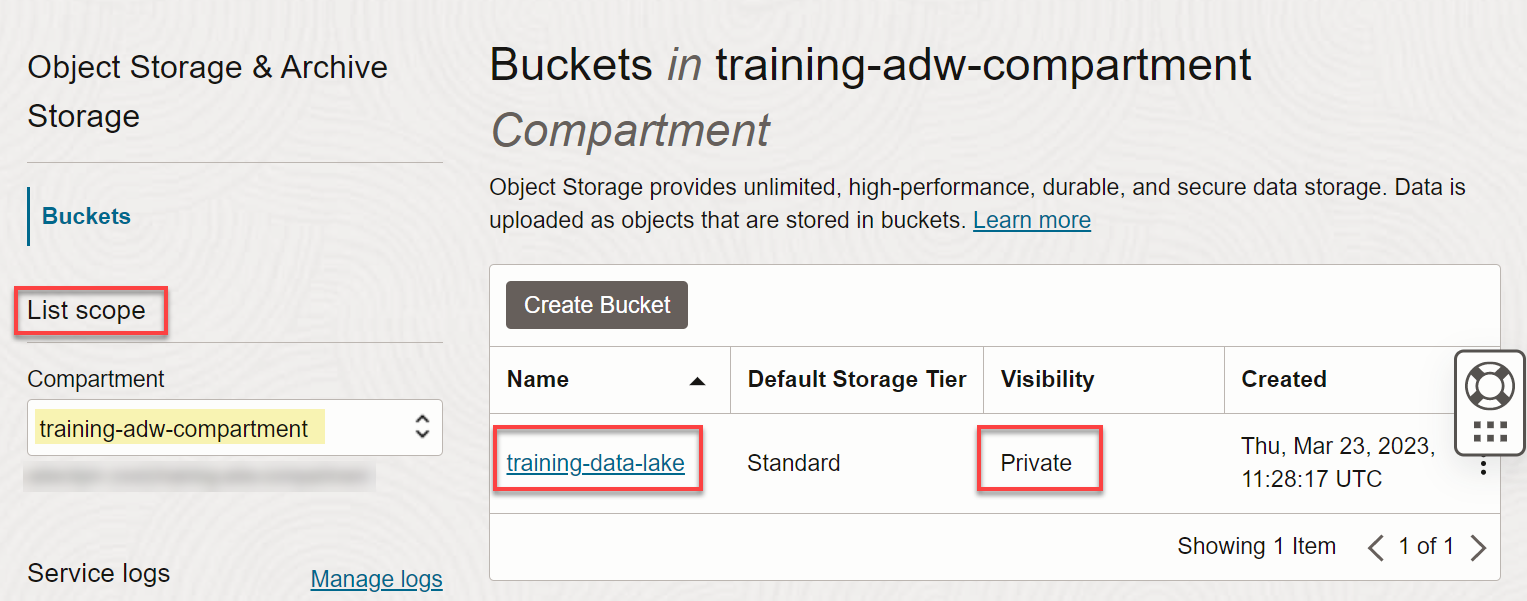
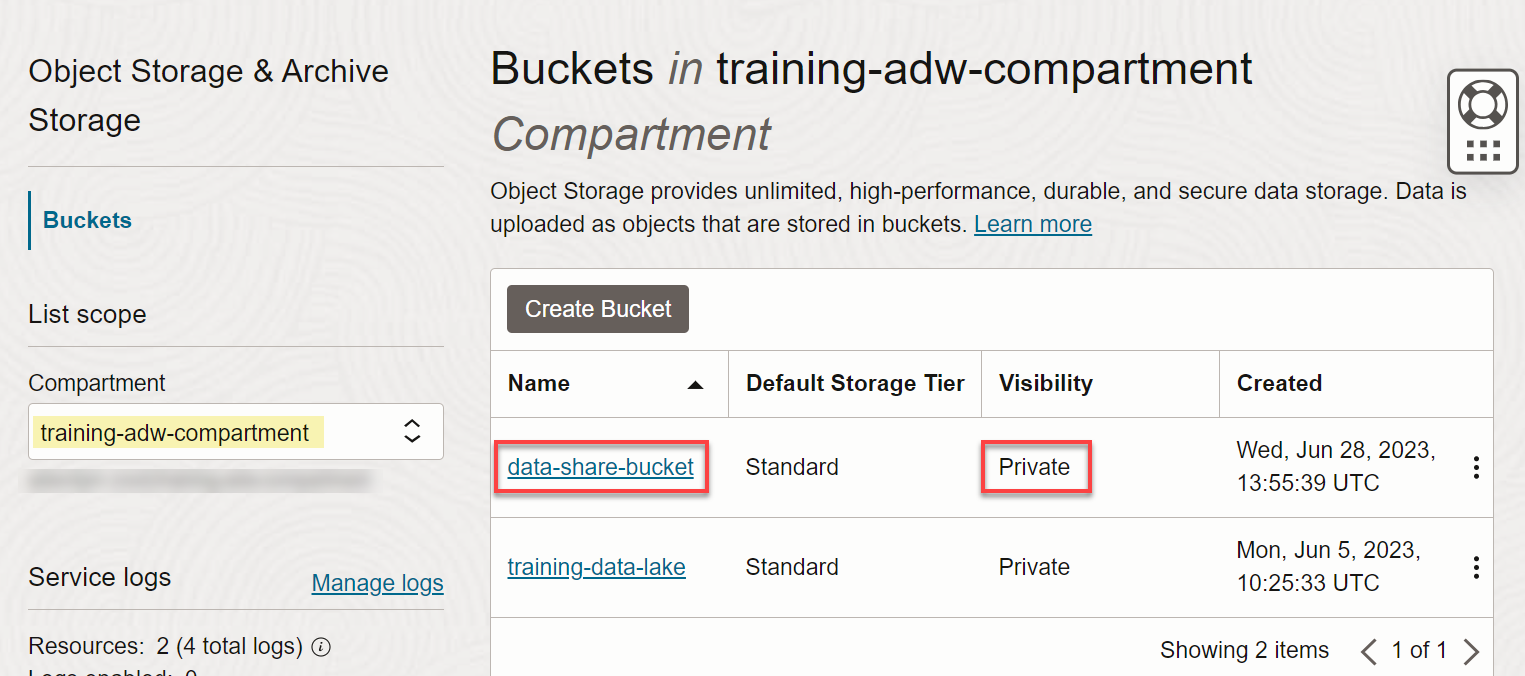
more updates

diff --git a/shared/adw-data-lake/use-data-sharing/create-user-storage-credentials/create-user-storage-credentials.md b/shared/adw-data-lake/use-data-sharing/create-user-storage-credentials/create-user-storage-credentials.md
@@ -10,11 +10,10 @@ Estimated Time: 15 minutes
 
 In this lab, you will:
 
-* Navigate to the SQL Worksheet utility.
-* Create a user that will be the recipient for data in the data share tables.
-* Grant the recipient the necessary role and privileges to access the data share.
-* Create an Oracle Object Storage bucket (if you don't have one) where you'll store the shared data.
-* Generate an RSA key pair (if you don't have a private key in PEM format) to generate a private key and a fingerprint and the user's OCID which you'll need to create an OCI native credential, if you don't have one.
+* Create a user that will be the data share provider.
+* Grant the data share provider the necessary role and privileges.
+* Create an Oracle Object Storage bucket where you'll store the shared data.
+* Generate an RSA key pair to generate a private key and a fingerprint.
 * Create an OCI native credential and associate the buckets' URL with the credential.
 
 ### Prerequisites
@@ -42,7 +41,7 @@ This lab assumes that you have successfully completed all of the preceding labs 
 
 Create a user that will be a **data share provider**. A user that will share the data needs to have certain privileges. You will also grant this user the required roles, and enable REST and data sharing.
 
->**Note:** Autonomous Database comes with a predefined database role named `DWROLE`. This role provides the privileges necessary for most database users. For more information about this role, see [Manage Database User Privileges](https://docs.oracle.com/en-us/iaas/autonomous-database/doc/managing-database-users.html).
+Autonomous Database comes with a predefined database role named `DWROLE`. This role provides the privileges necessary for most database users. For more information about this role, see [Manage Database User Privileges](https://docs.oracle.com/en-us/iaas/autonomous-database/doc/managing-database-users.html).
 
 1. Copy and paste the following script into your SQL Worksheet, and then click the **Run Script (F5)** icon in the Worksheet toolbar.
 
@@ -80,6 +79,8 @@ Create a user that will be a **data share provider**. A user that will share the
     </copy>
     ```
 
+    >**Note:** Although you are creating the new **`share_provider`** user, for the initial release of the workshop, you will be using the **`admin`** user to perform the tasks in this workshop.
+
     ![Run the script](images/run-script.png)
 
     The results are displayed in the **Script Output** tab.
@@ -88,11 +89,11 @@ Create a user that will be a **data share provider**. A user that will share the
 
 ## Task 3: Create an Oracle Object Storage Bucket
 
-You should store the data share data in Object Storage. You will have to create a link to your Object Storage bucket and (bucket's URL) and then associate the access credentials with that bucket.
+You should store the data share data in Object Storage. You will then create a link to your Object Storage bucket and associate the access credentials with that bucket.
 
 >**Note:** If you already have an Object Storage bucket, you don't need to create a new one.
 
-1. In the **Autonomous Database** browser tab, open the **Navigation** menu in the Oracle Cloud console and click **Storage**. Under **Object Storage & Archive Storage**, click **Buckets**.
+1. In your **Autonomous Database** browser tab, open the **Navigation** menu in the Oracle Cloud console and click **Storage**. Under **Object Storage & Archive Storage**, click **Buckets**.
 
 2. On the **Buckets** page, select the compartment where you want to create the bucket from the **Compartment** drop-down list in the **List Scope** section. Make sure you are in the region where you want to create your bucket.
 
@@ -101,7 +102,7 @@ You should store the data share data in Object Storage. You will have to create 
 3. Click **Create Bucket**.
 
 4. In the **Create Bucket** panel, specify the following:
-    - **Bucket Name:** Enter a meaningful name for the bucket.
+    - **Bucket Name:** Enter **data-share-bucket**.
     - **Default Storage Tier:** Accept the default **Standard** storage tier. Use this tier for storing frequently accessed data that requires fast and immediate access. For infrequent access, choose the **Archive** storage tier.
     - **Encryption:** Accept the default **Encrypt using Oracle managed keys**.
 
@@ -129,7 +130,7 @@ In this task, you will get the following items that are required to create a Clo
 
     ![Click the person icon at the far upper right and click your username.](./images/click-your-username.png " ")
 
-2. The **User Details** page is displayed. In the **User Information** tab, click the **Copy** link next to the **OCID** field. Make a note of this username's OCID as you will need it in a later task. Scroll down the page to the **Resources** section, and then click **API Keys**.
+2. The **User Details** page is displayed. Scroll down the page to the **Resources** section, and then click **API Keys**.
 
     ![Click Auth Tokens under Resources at the bottom left.](./images/click-api-key.png " ")
 
@@ -149,7 +150,7 @@ In this task, you will get the following items that are required to create a Clo
 
     **`oci-api-private-key.pem`**
 
-5. In most cases, you do not need to download the public key; however, you will download the public key for potential future use. click **Download Public Key**. The public key is downloaded to your Web browser's default directory such as the **Downloads** folder in MS-Windows. A checkmark is displayed next to the **Download Public Key**.
+5. In most cases, you do not need to download the public key; however, you can download the public key for future use. click **Download Public Key**. The public key is downloaded to your Web browser's default directory such as the **Downloads** folder in MS-Windows. A checkmark is displayed next to the **Download Public Key**.
 
     ![Download public key.](./images/download-public-key.png " ")
 
@@ -181,7 +182,7 @@ To access data in the Object Store, you need to enable your database user to aut
 
     In our example, the **region name** is `ca-toronto-1`, the **Namespace** is blurred for security, and the **bucket name** is `data-share-bucket`.
 
-2. Create a storage link that points to your Object Store URI. Make sure that the user has `WRITE` privileges to the specified bucket. Copy and paste the following script into your SQL Worksheet, and then click the **Run Statement** icon in the Worksheet toolbar. **Note:** Substitute the URI value in the following code with your own URI.
+2. Create a storage link that points to your Object Storage bucket's URI. Make sure that the user has `WRITE` privileges to the specified bucket. Copy and paste the following script into your SQL Worksheet, and then click the **Run Statement** icon in the Worksheet toolbar. **Note:** Substitute the URI value in the following code with your own bucket's URI.
 
     ```
     <copy>
@@ -239,7 +240,7 @@ To access data in the Object Store, you need to enable your database user to aut
 
     ![Access bucket.](images/access-bucket.png)
 
-5. Associate the storage link that you created in step 1 with your OCI native credential that you created in step 2. Copy and paste the following script into your SQL Worksheet, and then click the **Run Script** icon in the Worksheet toolbar.
+5. Associate the storage link that you created in step 2 with your OCI native credential that you created in step 3. Copy and paste the following script into your SQL Worksheet, and then click the **Run Script** icon in the Worksheet toolbar.
 
     ```
     <copy>

diff --git a/shared/adw-data-lake/use-data-sharing/introduction/introduction.md b/shared/adw-data-lake/use-data-sharing/introduction/introduction.md
@@ -2,7 +2,7 @@
 
 Data sharing is making the same data available to one or more consumers. Nowadays, the ever-growing amount of data has become a strategic asset for any company. Sharing data - within your organization or externally - is an enabling technology for new business opportunities. Sharing data and consuming data from external sources allows to collaborate with partners, establish new partnerships and generate new revenue streams with data monetization.
 
-## Why Use Data Sharing?
+### Why Use Data Sharing?
 
 Data Sharing allows customers to improve their business and open up new opportunities. Examples of Data Sharing scenarios:
 
@@ -10,7 +10,7 @@ Data Sharing allows customers to improve their business and open up new opportun
 * Business to Business (B2B) where a retailer shares regional sales and inventory data with a supplier to help improve the supplier's production line and locations.
 * Business to Customers (B2C) where a restaurant shares historical time-based pattern of busyness to allow customers to plan for their reservations.
 
-## About this Workshop
+### About this Workshop
 
 The labs in this workshop walk you through all the steps to ...
 
@@ -18,13 +18,36 @@ The labs in this workshop walk you through all the steps to ...
 
 Estimated Time: 1.5 hours
 
-### What is a Data Lake?
-A data lake enables an enterprise to store all of its data in a cost effective, elastic environment while providing the necessary processing, persistence, and analytic services to discover new business insights. A data lake stores and curates structured and unstructured data and provides methods for organizing large volumes of highly diverse data from multiple sources. In this workshop, a Data Lake refers to the Oracle Object Storage buckets that you will harvest in Data Catalog and query in ADB.
+### Traditional ways to share data
 
-### What is a Data Warehouse?
-With a data warehouse, you perform data transformation and cleansing before you commit the data to the warehouse. With a data lake, you ingest data quickly and prepare it on the fly as people access it. A data lake supports operational reporting and business monitoring that require immediate access to data and flexible analysis to understand what is happening in the business while it happening.
+Sharing data is nothing new and users did this before. Some examples of how users used to do data sharing in the past are:
 
-For additional information, see [What is the difference between a Data Lake, Database, and a Data Warehouse](https://www.oracle.com/a/ocom/docs/database/difference-between-data-lake-data-warehouse.pdf).
+* Send data via email
+* Share data through an FTP server
+* Use application-specific APIs for data extraction
+* Leverage vendor specific tools to copy relevant data
+
+While these methods work in general, they come with certain drawbacks:
+
+* Managing separate processes for data extraction, preparation or remote access are labor-intensive.
+* Extracting and duplicating data is prone to data staleness.
+* Architectures and processes can become very difficult to maintain and hard to scale.
+* Redundant data extraction can introduce format compatibility issues.
+* Data extraction and preparation must handle sensitive information properly.
+
+### The modern way of sharing data
+
+Modern data sharing must be open, secure, real-time, vendor-agnostic, and avoid the pitfalls of extracting and duplicating data for individual consumers of data in a collaborative environment. Delta Sharing is an open protocol for secure real-time data exchange of large datasets that satisfies all these criteria, supported by multiple clients and program languages, and vendor agnostic.
+
+The open Delta Sharing protocol is aimed to solve the following problems:
+
+* Share data without copying it to another system
+* Producer controls the state of data (version of data)
+* Be an open cross-platform solution
+* Support a wide range of clients such as Power BI, Tableau, Apache Spark, pandas and Java
+* Provide flexibility to consume data using the tools of choice for BI, machine learning and AI use cases
+* Provide strong security, auditing, and governance
+* Scale to massive data sets
 
 ### Objectives
 

diff --git a/shared/adw-data-lake/use-data-sharing/setup-workshop-environment/setup-workshop-environment.md b/shared/adw-data-lake/use-data-sharing/setup-workshop-environment/setup-workshop-environment.md
@@ -32,11 +32,11 @@ In this lab, you will:
 
 * (Optional) Create a compartment for your Data Catalog resources.
 * Create an Autonomous Warehouse instance.
+* Add the Data Share feature to the Limited Availability (LA) Version. This is not required in the GA Release.
 
 ### Prerequisites
 
 * An Oracle Cloud Account - Please view this workshop's LiveLabs landing page to see which environments are supported.
-* At least one user in your tenancy who wants to work with Data Catalog.
 
 > **Note:** If you have a **Free Trial** account, when your Free Trial expires your account will be converted to an **Always Free** account. You will not be able to conduct Free Tier workshops unless the Always Free environment is available. [Click here for the Free Tier FAQ page.](https://www.oracle.com/cloud/free/faq.html)
 
@@ -178,7 +178,7 @@ A Cloud Administrator can optionally create a compartment in your tenancy to hel
 
 ## Task 5: Add Data Share to the Limited Availability (LA) Version (Remove for GA)
 
-For the LA release only, the stage database must be **whitelisted** as follows:
+Support for Data Sharing is not automatically enabled in **Database Actions** in the Limited Availability (LA) release. You must enable the Data Sharing feature by performing the prerequisites described in this task. **Data Share** is a part of the **Data Studio** suite of tools built into Oracle Autonomous Database. You must access the **Database Actions** as the **ADMIN** user and have the **ADPBETA** role assigned to this user.
 
 1. Copy and paste the following script into your SQL Worksheet, and then click the **Run Script (F5)** icon in the Worksheet toolbar.
 
@@ -210,7 +210,7 @@ For the LA release only, the stage database must be **whitelisted** as follows:
 
     ![Check ADP version and whitelisting status](images/check-version-state.png)
 
-3. Confirm that the Data Sharing tile is now visible in the **Data Studio** section on the **DATA LOAD** page. Click **Oracle Database Actions** in the banner to display the Launchpad landing page. In the **Data Studio** section, the **Data Sharing** tile should be displayed.
+3. Confirm that the Data Sharing tile is now visible in the **Data Studio** section on the **DATA LOAD** page. Click **Oracle Database Actions** in the banner to display the Launchpad landing page. In the **Data Studio** section, the **Data Sharing** tile should be displayed. If the tile doesn't appear, refresh your Web browser.
 
     ![The Data Sharing tile is displayed.](images/data-sharing-tile.png)
 

diff --git a/shared/adw-data-lake/use-data-sharing/create-share-recipients/create-share-recipients.md b/shared/adw-data-lake/use-data-sharing/create-share-recipients/create-share-recipients.md
@@ -93,7 +93,7 @@ There are two API types that you can use to create the Delta share profile.
 
 ### **Method 1**
 
-_**Note to self: The following generated activation link didn't work for me on June 27. Alexey thinks it's a bug that will be fixed next week._**
+_**Note to self: The following generated activation link didn't work for me on June 27. Alexey thinks it's a bug that will be fixed next week.He said that once I copy the generated link and paste in my web browser, I should get to the page with the blue Get Profile Information which you can download only once._**
 
 Use an API that generates the activation link's URL which the recipient can use to download a `JSON` config file. Copy and paste the following script into your SQL Worksheet, and then click the **Run Script** icon.
 
@@ -111,8 +111,8 @@ END;
 
 ### **Method 2**
 
-_**Note to self: The following code generated an error for me but Alexey was able to run
-it on his machine. It might be an issue with adwc4pm. Here's the output from him running the same code._**
+_**Note to self: The preceding code generated an error for me but Alexey was able to run
+it on his machine. It might be an issue with the adwc4pm tenancy not containing the latest code. Here's the output from him running the same code. With this method, when Alexey ran the script, the config file was displayed in the Script output. You then would share the config file with your recipient via email, slack, etc._**
 
 ![Alexey running the code.](images/alexey-code-1.png)
 
@@ -151,6 +151,8 @@ To access the recipient's activation link using the UI, perform the following st
     ![Click Consume Share.](images/consume-share.png)
 
     ![UI screen 1.](images/screen-1.png)
+
+    ![UI screen 1.2.](images/screen-1_2.png)
 
     ![UI screen 2.](images/screen-2.png)
 

diff --git a/shared/adw-data-lake/use-data-sharing/create-share/create-share.md b/shared/adw-data-lake/use-data-sharing/create-share/create-share.md
@@ -2,11 +2,9 @@
 
 ## Introduction
 
-A share is the logical container that will be filled up with objects such as tables. An authorized share recipient will get assess to the share and all the tables in it. A share also implements security mechanism and this is less granular entity to grant security.
+A data share is the logical container that contain objects such as tables that you will share with recipients. An authorized data share recipient will get assess to the share and all the tables in it. A share also implements security mechanism and this is less granular entity to grant security.
 
-In this lab, you will create a share and add a table to it. Next, you will publish the share to make it available to recipients that you will define in the next lab.
-
-> **Note:** While this lab uses Oracle Autonomous Data Warehouse, the steps are identical for loading data into an Oracle Autonomous Transaction Processing database.
+In this lab, you will create a data share and add a table to it. Next, you will publish the data share to make it available to the recipients that you will define in the next lab.
 
 Estimated Time: 20 minutes
 
@@ -16,8 +14,8 @@ In this lab, you will:
 
 * Create a new data share.
 * Create two tables.
-* Add objects (tables) to the data share.
-* Publish the data share to make it available to recipients.
+* Add one of the newly created tables to the data share.
+* Publish the data share to make it available to authorized recipients.
 
 ### Prerequisites
 

diff --git a/shared/adw-data-lake/use-data-sharing/consume-share/consume-share.md b/shared/adw-data-lake/use-data-sharing/consume-share/consume-share.md
@@ -30,7 +30,7 @@ This lab assumes that you have successfully completed all of the preceding labs 
 
 ## Task 2:  Grant Required Privileges and Review Prerequisites
 
-1. To consume a data share, a user must set up an ACL to the data share's provider's machine using **`DBMS_NETWORK_ACL_ADMIN.APPEND_HOST_ACE`** as user **`ADMIN`** or some other privileged user. This enables a user or a role to access the data share through the Internet. This must be done before the going through the **Add Share Provider** wizard. For example, if you want to grant role `DWROLE` access on host `acme.com`, you can grant the access as follows:
+1. To consume a data share, a user must set up an ACL to the data share's provider's machine to allow them to connect to the specified host as user **`ADMIN`** (or some other privileged user) from ADW over the public internet. This must be done before the going through the **Add Share Provider** wizard. For example, if you want to grant role `DWROLE` access on host `acme.com`, you can grant the access as follows:
 
     ```
     BEGIN
